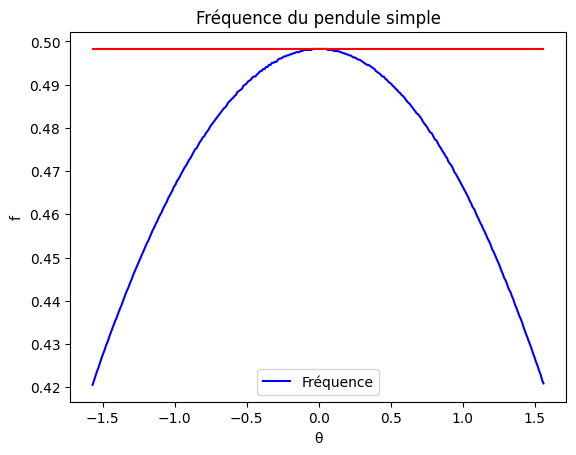
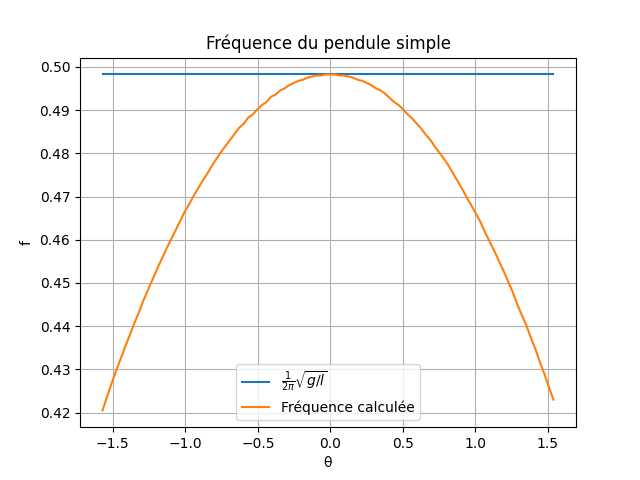
Close to the end...

diff --git a/src/part3.py b/src/part3.py
@@ -66,7 +66,7 @@ def frequencies_theta_variable_graph():
 	"""
 	Function to plot the frequencies of the pendulum with theta_0 varying
 	"""
-	n = 300
+	n = 100
 	x = np.array([(-np.pi / 2) + np.pi * i / n for i in range(n)])
 	x = np.delete(x, np.where(x == 0))
 	y = np.array([frequencies(x[i]) for i in range(n - 1)])
@@ -74,11 +74,12 @@ def frequencies_theta_variable_graph():
 	    (1 / (2 * np.pi)) * math.sqrt(g / l) for _ in range(n - 1)
 	])
 	plt.title("Fréquence du pendule simple")
-	plt.plot(x, y, color="blue", label="Fréquence")
-	plt.plot(x, y_const, color="red")
+	plt.plot(x, y_const, label=r"$\frac{1}{2 \pi} \sqrt{g / l}$")
+	plt.plot(x, y, label="Fréquence calculée")
 	plt.xlabel("θ")
 	plt.ylabel("f")
 	plt.legend()
+	plt.grid()
 	plt.show()
 
 
@@ -223,8 +224,8 @@ def find_first_loop(theta1, theta2, t):
 if __name__ == '__main__':
 	frequencies_theta_variable_graph()
 
-	angles = np.array([pi / 2, 0])
-	angular_speed = np.array([4, 0])
+	angles = np.array([0, 0])
+	angular_speed = np.array([0, 8])
 	theta1, theta2, t = double_pendulum(angles, angular_speed, 0, 10)
 	animate_double_pendulum(theta1, theta2, t)
 
